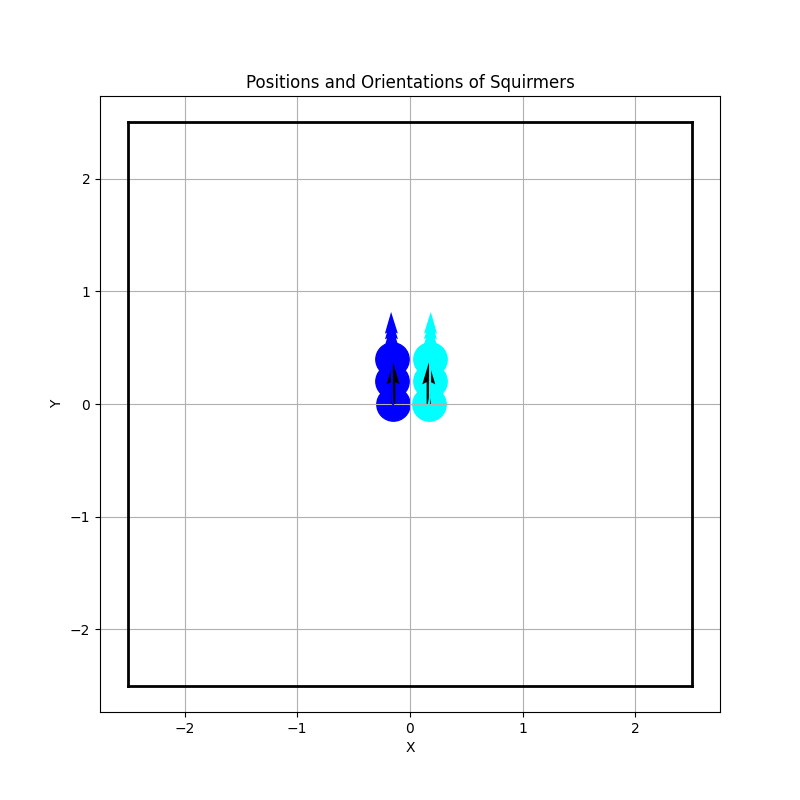
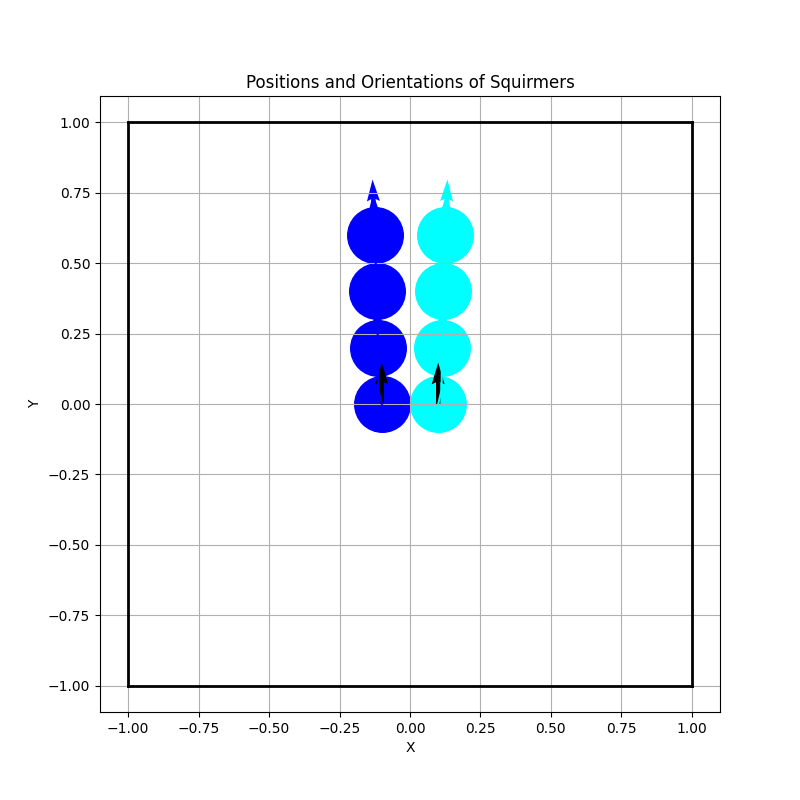
torques and plot_min_distance

diff --git a/Code/interactingsquirmers.py b/Code/interactingsquirmers.py
@@ -1,4 +1,5 @@
 import numpy as np
+import os
 import matplotlib
 matplotlib.use('Agg')
 import matplotlib.pyplot as plt
@@ -110,7 +111,6 @@ class InteractingSquirmers:
                 
         val = (16/10)*self.mu*np.pi*(a**2)*eieijt*somme*lnEps
         val2 = (1/4)*val
-        print(f"x = {squirmer1.x} and val = {val}\n")
         
         return val, val2
         
@@ -200,6 +200,7 @@ class InteractingSquirmers:
         return squirmer.x
 
     def loop_time(self):
+        self.vector_dists_min = []
         tout = self.dt_out
         a = self.radius
         #List that contains data to export
@@ -218,8 +219,15 @@ class InteractingSquirmers:
             self.val.fill(0)
             self.gamma_w.fill(0)
             self.Fs_pw.fill(0)
+            list_tmp = []
             for i,s in enumerate(self.squirmers):
                 Dx, Dy, dist = self.distance_all(s)
+                dist_tmp = np.array(dist)
+                dist_nz = dist_tmp[dist_tmp != 0]
+                if dist_nz.size > 0:
+                    tmp = np.array(dist_nz)
+                    tmp2 = tmp - 2*a
+                    list_tmp.append(min(tmp2))
 
                 for j in range(len(dist)):
                     #Force between squirmers
@@ -239,7 +247,8 @@ class InteractingSquirmers:
 
                         #Torques
                         val1, val2 = self.torquesLubrification(s, self.squirmers[j])
-                        self.val[i] += val1 + val2
+                        self.val[i] += val1
+                        self.val[j] += val2
 
                 #Force between a squirmer and a border
                 if ((self.R-abs(s.x)) < 2**(1/6)*a) and (self.border == True):
@@ -252,7 +261,8 @@ class InteractingSquirmers:
                     self.gamma_w[i] += self.compute_torque_squirmer_border(s)
                 if ((self.R - abs(s.y)) < 2**(1/6) * a):
                     self.gamma_w[i] += self.compute_torque_squirmer_border(s)
-        
+            
+            self.vector_dists_min.append(min(list_tmp))
             #Evolution of position
             self.orientations += self.dt*(self.val + self.gamma_w)
             self.xs += self.dt*(self.v0 * np.cos(self.orientations) - self.Fs_x - self.Fs_pw[0] + self.Fl_x)
@@ -296,6 +306,18 @@ class InteractingSquirmers:
 
         return history
     
+    def plot_vect_dist(self, filename, dir='graphs'):
+        plt.plot(self.vector_dists_min)
+        plt.xlabel('Time step')
+        plt.ylabel('Minimum distance')
+        plt.title('Evolution of minimum distance over time')
+        plt.grid(True)
+    
+        if not os.path.exists(dir):
+            os.makedirs(dir)
+        save_path = os.path.join(dir, filename + '.png')
+        plt.savefig(save_path)
+
     def run(self, file_name_csv, filename_pos='position_graph', filename_dist='dist_squirmer_graph',):
         self.check_squirmers_square()
         history = self.loop_time()

diff --git a/Code/run.py b/Code/run.py
@@ -7,11 +7,11 @@ def main(simulation, N, filename):
     #velocity
     v0 = 1
     #length of the square
-    L = 5
+    L = 2
     #half of the length of the square
     R = L/2
     #squirmers' radius
-    a = 0.15
+    a = 0.05
     #betas
     beta = 0
     #time-step
@@ -21,11 +21,11 @@ def main(simulation, N, filename):
     #amplitude of steric interactions
     Es = 1
     #simulation time
-    T = 0.5
+    T = 0.7
     #periodicity of outputs
     dt_out = 0.05
     #viscovity parameter
-    mu = 0.1
+    mu = 1
     #amplitude of orientational interactions
     #Eo[0] = Eoinitial, E[1] = Eobrumley, E[2] = Eolauga
     Eo = [(((3./10.)*v0/a), "Eo_init"), ((16/10)*mu*np.pi*a**2, "Eo_brumley"), ((-3./2.)*(v0/a), "Eo_lauga"),
@@ -49,7 +49,7 @@ def main(simulation, N, filename):
             ys[k] = y
             k += 1
     #border to simulate chanel or box
-    border = False
+    border = True
     #border_plot to do the simulation of the border or not
     border_plot = True
 
@@ -60,9 +60,6 @@ def main(simulation, N, filename):
     if simulation == 'video':
         sim_vid_interact_sq(N, xs, ys, orients, a, beta, v0, R, dt, dt_out, T, Es, ds, mu, Eo[0][0], lnEps_cr, border, filename, dir='videos')
     elif simulation == 'plot':
-        xs = [-a, a/0.9]
-        ys = [0, 0]
-        orients = [np.pi/2, np.pi/2]
         sim_interacting_squirmers(N, xs, ys, orients, a, beta, v0, R, dt, dt_out, T, Es, ds, mu, Eo[0][0], lnEps_cr, border, False, filename, border_plot, dir='graphs')
     elif simulation == 'border':
         xs = [-0.4]

diff --git a/Code/simulation.py b/Code/simulation.py
@@ -11,6 +11,7 @@ def sim_interacting_squirmers(N, xs, ys, orients, a, beta, v0, R, dt, dt_out, T,
     #sim_border : False or True, if True it does the simulation with one squirmer and one border
     interact = InteractingSquirmers(N, xs, ys, orients, a, beta, v0, R, dt, dt_out, T, Es, ds, mu, Eo, lnEps_cr, border)
     history = interact.loop_time()
+    interact.plot_vect_dist("min_dist_" + filename)
 
     plot_sim_nsquirmers(history, R, N, a, border_plot, sim_bord, filename=filename, dir=dir)
 
@@ -28,6 +29,7 @@ def sim_vid_interact_sq(N, xs, ys, orients, a, beta, v0, R, dt, dt_out, T, Es, d
     #Create a video of N squirmers interacting
     interact_sq = InteractingSquirmers(N, xs, ys, orients, a, beta, v0, R, dt, dt_out, T, Es, ds, mu, Eo, lnEps_cr, border)
     history = interact_sq.loop_time()
+    interact_sq.plot_vect_dist("min_dist_" + filename, dir)
 
     create_video_from_history(history, R=R, N=N, filename=filename, dir=dir)
 
